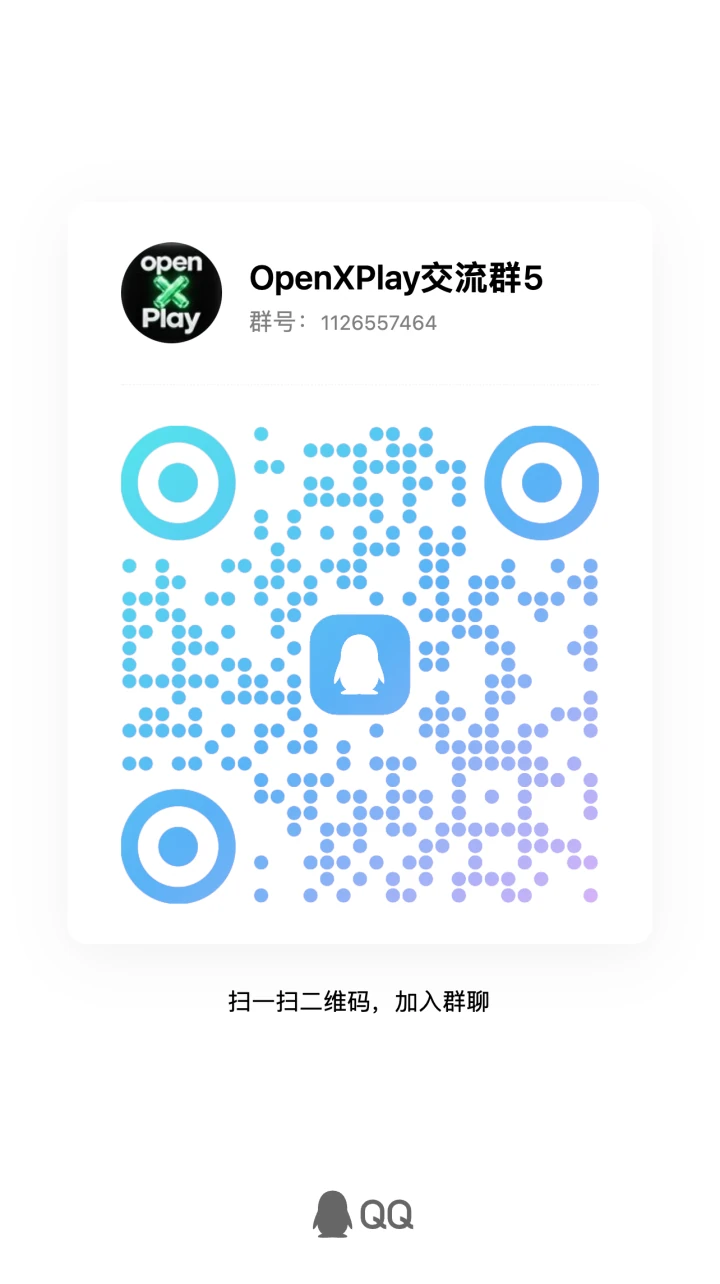
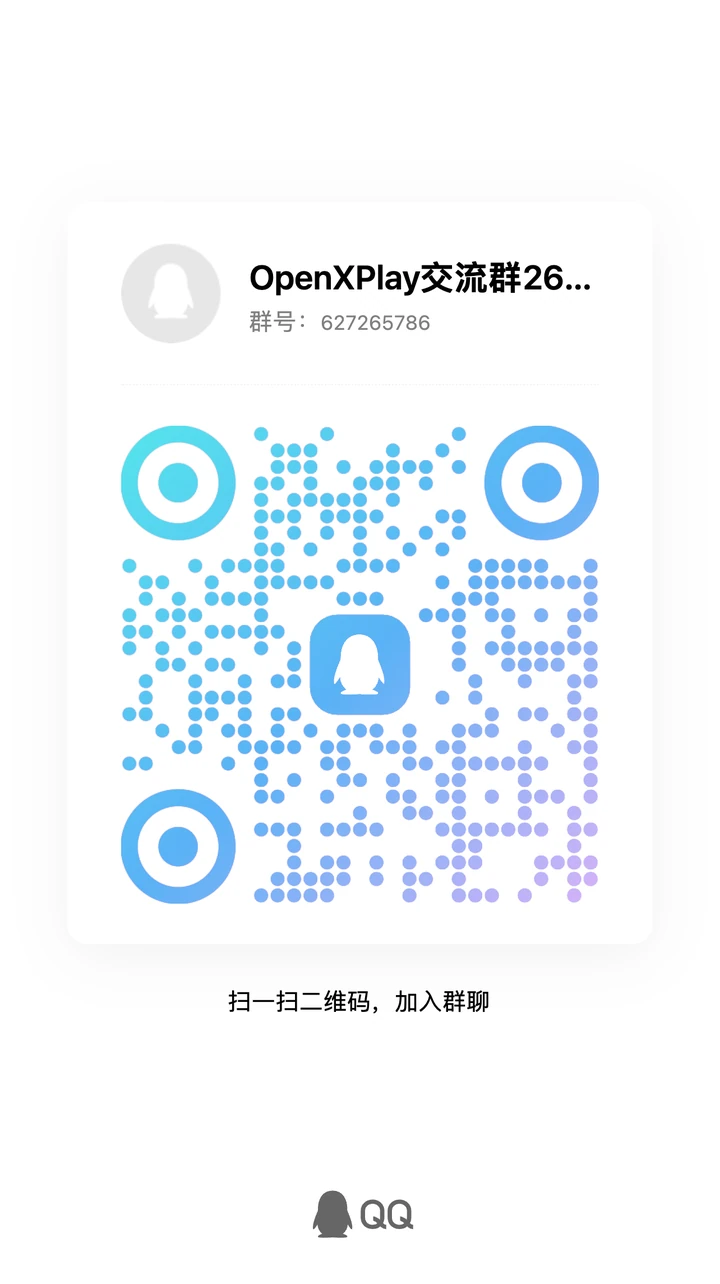
Update community QQ group and WeChat invitation
Replace the current QQ group number with 627265786 and refresh the WeChat group QR code. Keep the existing image paths, and describe the QQ group without a group ordinal.

diff --git a/skills/openxplay-guide/SKILL.md b/skills/openxplay-guide/SKILL.md
@@ -6,7 +6,7 @@ name: openxplay-guide
 description: "Set up OpenXPlay: iPhone CarPlay on an Android head unit, either directly with the OpenXPlay iPhone app or through a relay, with nothing installed on the head unit. Introduces the project and openxplay.org, interviews the user about their car, iPhone, spare devices and computer, recommends a route (the iPhone app directly, or an Android phone, UFI003 dongle or another arm64 Linux device as the relay; the head unit's browser, Carlink, CarLife, screen casting or Tesla browser to show it), judges unlisted Linux devices, then guides the install and first connection one step at a time, running computer-side steps itself and asking before anything risky; when something goes wrong it helps and points to community groups. Use it whenever someone asks what OpenXPlay is, wants to install, set up, troubleshoot or choose hardware for OpenXPlay or OpenXPlay Relay, asks whether their car, phone, TV box or board can run it, or wants CarPlay on a car screen that cannot install apps, in any language, including Chinese."
 license: CC-BY-4.0
 metadata:
-  version: "0.8.6"
+  version: "0.8.7"
   minimum-version: "0.1.0"
   source: "https://github.com/OpenXPlay/OpenXPlay/tree/main/skills/openxplay-guide"
 ---
@@ -145,7 +145,7 @@ The community groups are where drivers report problems, share how their head uni
 
 | Channel | How to join |
 | --- | --- |
-| QQ group 5 | Number `1126557464`, or the QR code on the community page |
+| QQ group | Number `627265786`, or the QR code on the community page |
 | WeChat group | The QR code on the community page. It expires and is refreshed; if it has expired, join QQ or Discord and ask there for an invitation. |
 | Discord | <https://discord.gg/j3cKd5Tax> |
 

diff --git a/site/ru/community.md b/site/ru/community.md
@@ -15,18 +15,18 @@ breadcrumb: Сообщество
 
 | Канал | Как присоединиться |
 | --- | --- |
-| Группа QQ 5 | 1126557464 или отсканируйте QR-код ниже |
+| Группа QQ | 627265786 или отсканируйте QR-код ниже |
 | Группа WeChat | Отсканируйте QR-код ниже |
 | Discord | [discord.gg/j3cKd5Tax](https://discord.gg/j3cKd5Tax) |
 
 <div class="oxp-community-qr">
   <figure class="oxp-figure">
-    <figcaption>Группа QQ 5 · 1126557464</figcaption>
-    <img src="../../Group/QQ_Group_5.webp" width="720" height="1284" loading="lazy" decoding="async" alt="QR-код для вступления в группу QQ 5 OpenXPlay, 1126557464">
+    <figcaption>Группа QQ · 627265786</figcaption>
+    <img src="../../Group/QQ_Group_5.webp" width="720" height="1284" loading="lazy" decoding="async" alt="QR-код для вступления в группу QQ OpenXPlay, 627265786">
   </figure>
   <figure class="oxp-figure is-wechat">
     <figcaption>Группа WeChat</figcaption>
-    <img src="../../Group/Wechat_Group.webp" width="720" height="1094" loading="lazy" decoding="async" alt="QR-код для вступления в группу WeChat OpenXPlay">
+    <img src="../../Group/Wechat_Group.webp" width="720" height="1105" loading="lazy" decoding="async" alt="QR-код для вступления в группу WeChat OpenXPlay">
   </figure>
 </div>
 

diff --git a/site/es/community.md b/site/es/community.md
@@ -15,18 +15,18 @@ Cuenta cómo funciona OpenXPlay con tu unidad principal, comparte experiencias, 
 
 | Canal | Cómo unirte |
 | --- | --- |
-| Grupo 5 de QQ | 1126557464, o escanea el código QR de abajo |
+| Grupo de QQ | 627265786, o escanea el código QR de abajo |
 | Grupo de WeChat | Escanea el código QR de abajo |
 | Discord | [discord.gg/j3cKd5Tax](https://discord.gg/j3cKd5Tax) |
 
 <div class="oxp-community-qr">
   <figure class="oxp-figure">
-    <figcaption>Grupo 5 de QQ · 1126557464</figcaption>
-    <img src="../../Group/QQ_Group_5.webp" width="720" height="1284" loading="lazy" decoding="async" alt="Código QR para unirse al grupo 5 de QQ de OpenXPlay, 1126557464">
+    <figcaption>Grupo de QQ · 627265786</figcaption>
+    <img src="../../Group/QQ_Group_5.webp" width="720" height="1284" loading="lazy" decoding="async" alt="Código QR para unirse al grupo de QQ de OpenXPlay, 627265786">
   </figure>
   <figure class="oxp-figure is-wechat">
     <figcaption>Grupo de WeChat</figcaption>
-    <img src="../../Group/Wechat_Group.webp" width="720" height="1094" loading="lazy" decoding="async" alt="Código QR para unirse al grupo de WeChat de OpenXPlay">
+    <img src="../../Group/Wechat_Group.webp" width="720" height="1105" loading="lazy" decoding="async" alt="Código QR para unirse al grupo de WeChat de OpenXPlay">
   </figure>
 </div>
 

diff --git a/site/en/community.md b/site/en/community.md
@@ -15,18 +15,18 @@ Share how OpenXPlay works with your head unit, swap experiences, report problems
 
 | Channel | How to join |
 | --- | --- |
-| QQ group 5 | 1126557464, or scan the QR code below |
+| QQ group | 627265786, or scan the QR code below |
 | WeChat group | Scan the QR code below |
 | Discord | [discord.gg/j3cKd5Tax](https://discord.gg/j3cKd5Tax) |
 
 <div class="oxp-community-qr">
   <figure class="oxp-figure">
-    <figcaption>QQ group 5 · 1126557464</figcaption>
-    <img src="../../Group/QQ_Group_5.webp" width="720" height="1284" loading="lazy" decoding="async" alt="QR code for joining OpenXPlay QQ group 5, 1126557464">
+    <figcaption>QQ group · 627265786</figcaption>
+    <img src="../../Group/QQ_Group_5.webp" width="720" height="1284" loading="lazy" decoding="async" alt="QR code for joining the OpenXPlay QQ group, 627265786">
   </figure>
   <figure class="oxp-figure is-wechat">
     <figcaption>WeChat group</figcaption>
-    <img src="../../Group/Wechat_Group.webp" width="720" height="1094" loading="lazy" decoding="async" alt="QR code for joining the OpenXPlay WeChat group">
+    <img src="../../Group/Wechat_Group.webp" width="720" height="1105" loading="lazy" decoding="async" alt="QR code for joining the OpenXPlay WeChat group">
   </figure>
 </div>
 

diff --git a/README.md b/README.md
@@ -74,12 +74,12 @@ The two have different focuses. OpenXPlay gives head units that can't install ap
 Share how OpenXPlay works with your head unit, swap experiences, report problems, and help test and develop the project.
 
 - **Discord:** <https://discord.gg/j3cKd5Tax>
-- **QQ group 5:** 1126557464
+- **QQ group:** 627265786
 - **WeChat group:** scan the QR code below
 
 <table>
-  <tr><th width="270">QQ group 5 · 1126557464</th><th width="270">WeChat group</th></tr>
-  <tr><td valign="top"><img src="Group/QQ_Group_5.webp" alt="QR code for joining OpenXPlay QQ group 5, 1126557464" width="270"></td><td valign="top"><img src="Group/Wechat_Group.webp" alt="QR code for joining the OpenXPlay WeChat group" width="270"></td></tr>
+  <tr><th width="270">QQ group · 627265786</th><th width="270">WeChat group</th></tr>
+  <tr><td valign="top"><img src="Group/QQ_Group_5.webp" alt="QR code for joining the OpenXPlay QQ group, 627265786" width="270"></td><td valign="top"><img src="Group/Wechat_Group.webp" alt="QR code for joining the OpenXPlay WeChat group" width="270"></td></tr>
 </table>
 
 When you report a compatibility problem, please include the head unit model, system version, the solution you used and what happened.

diff --git a/site/zh/community.md b/site/zh/community.md
@@ -15,18 +15,18 @@ breadcrumb: 交流群
 
 | 渠道 | 加入方式 |
 | --- | --- |
-| QQ 五群 | 1126557464，或扫描下方二维码 |
+| QQ 交流群 | 627265786，或扫描下方二维码 |
 | 微信群 | 扫描下方二维码 |
 | Discord | [discord.gg/j3cKd5Tax](https://discord.gg/j3cKd5Tax) |
 
 <div class="oxp-community-qr">
   <figure class="oxp-figure">
-    <figcaption>QQ 五群 · 1126557464</figcaption>
-    <img src="../../Group/QQ_Group_5.webp" width="720" height="1284" loading="lazy" decoding="async" alt="OpenXPlay QQ 五群 1126557464 的入群二维码">
+    <figcaption>QQ 交流群 · 627265786</figcaption>
+    <img src="../../Group/QQ_Group_5.webp" width="720" height="1284" loading="lazy" decoding="async" alt="OpenXPlay QQ 交流群 627265786 的入群二维码">
   </figure>
   <figure class="oxp-figure is-wechat">
     <figcaption>微信群</figcaption>
-    <img src="../../Group/Wechat_Group.webp" width="720" height="1094" loading="lazy" decoding="async" alt="OpenXPlay 微信交流群的入群二维码">
+    <img src="../../Group/Wechat_Group.webp" width="720" height="1105" loading="lazy" decoding="async" alt="OpenXPlay 微信交流群的入群二维码">
   </figure>
 </div>
 

diff --git a/site/ru/index.md b/site/ru/index.md
@@ -90,4 +90,4 @@ OpenXPlay работает через локальные подключения:
 
 ## Присоединяйтесь к сообществу {#join}
 
-Расскажите, как OpenXPlay работает с вашим головным устройством, сообщайте о проблемах или помогайте тестировать и развивать проект: [Discord](https://discord.gg/j3cKd5Tax), группа QQ 5 **1126557464** и группа WeChat. QR-коды — на странице [Сообщество](/ru/community).
+Расскажите, как OpenXPlay работает с вашим головным устройством, сообщайте о проблемах или помогайте тестировать и развивать проект: [Discord](https://discord.gg/j3cKd5Tax), группа QQ **627265786** и группа WeChat. QR-коды — на странице [Сообщество](/ru/community).

diff --git a/site/es/index.md b/site/es/index.md
@@ -90,4 +90,4 @@ Hay más respuestas en las [Preguntas frecuentes](/es/faq); para problemas con l
 
 ## Únete a la comunidad {#join}
 
-Cuenta cómo funciona OpenXPlay con tu unidad principal, reporta problemas o ayuda a probar y desarrollar el proyecto: [Discord](https://discord.gg/j3cKd5Tax), el grupo 5 de QQ **1126557464** y un grupo de WeChat. Los códigos QR están en la página [Comunidad](/es/community).
+Cuenta cómo funciona OpenXPlay con tu unidad principal, reporta problemas o ayuda a probar y desarrollar el proyecto: [Discord](https://discord.gg/j3cKd5Tax), el grupo de QQ **627265786** y un grupo de WeChat. Los códigos QR están en la página [Comunidad](/es/community).

diff --git a/site/en/index.md b/site/en/index.md
@@ -90,4 +90,4 @@ More answers are in the [FAQ](/en/faq); for problems with the connection, the pi
 
 ## Join the community {#join}
 
-Share how OpenXPlay works with your head unit, report problems, or help test and develop the project: [Discord](https://discord.gg/j3cKd5Tax), QQ group 5 **1126557464** and a WeChat group. The QR codes are on the [Community](/en/community) page.
+Share how OpenXPlay works with your head unit, report problems, or help test and develop the project: [Discord](https://discord.gg/j3cKd5Tax), QQ group **627265786** and a WeChat group. The QR codes are on the [Community](/en/community) page.

diff --git a/skills/openxplay-guide/CHANGELOG.md b/skills/openxplay-guide/CHANGELOG.md
@@ -8,6 +8,10 @@ Created by riko chen on 2026-10-29
 
 Every change to this skill raises `metadata.version` in `SKILL.md` and adds an entry here; the website build refuses a changed skill without both. MAJOR: older copies would give wrong or unsafe guidance (also raise `minimum-version`). MINOR: a new route, device or step. PATCH: wording and links.
 
+## 0.8.7 (2026-11-20)
+
+- Community links now use QQ group number 627265786.
+
 ## 0.8.6 (2026-11-18)
 
 - iPhone direct users now join the beta through https://openxplay.com instead of a TestFlight link.
